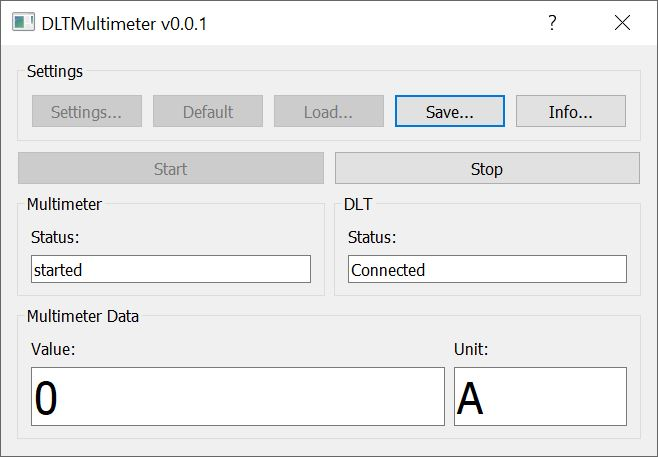
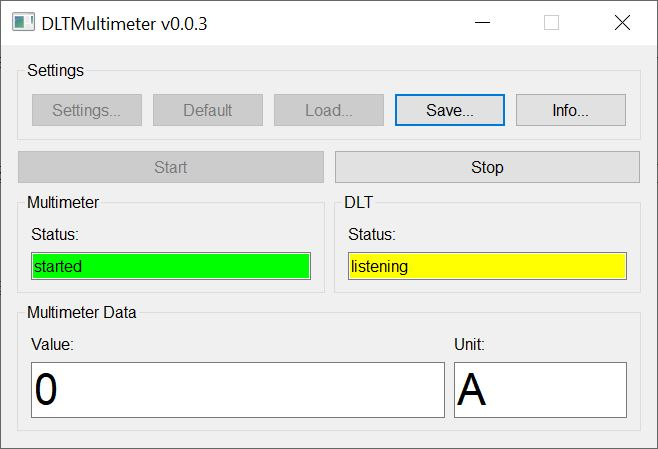
Update Documentation

diff --git a/README.md b/README.md
@@ -27,6 +27,14 @@ To build this SW the Qt Toolchain must be used.
 
 DLTMultimeter.exe
 
+* Options:
+*  -?, -h, --help          Help
+*  -v, --version           Version
+*  -a                      Autostart Communication
+
+* Arguments:
+*  configuration           Configuration file
+
 ## Contributing
 
 Contibutions are always welcome! Please provide a Pull Request on Github.
@@ -44,6 +52,13 @@ Paypal Donation:
 Github Sponsors:
 
 [:heart: Sponsor](https://github.com/sponsors/alexmucde)
+
+## Changes
+
+v0.0.3:
+
+* Added Watchdog
+* Added command line options autoload and configuration file
 
 ## Copyright
 
